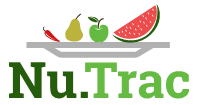
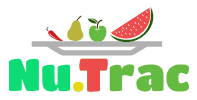
change theme

diff --git a/stylesheets/index.css b/stylesheets/index.css
@@ -4,8 +4,8 @@ html, body {
 }
 
 html {
-    /* Temp Font */
-    font-family: 'Shadows Into Light', cursive;
+    /* Rubik Font */
+    font-family: 'Rubik', sans-serif;
 }
 
 body > * {
@@ -15,7 +15,7 @@ body > * {
 body {
     flex-direction: column;
     display: flex;
-    background: palegreen;
+    background: #292929;
     align-items: center;
 }
 /* Nu.Trac */
@@ -25,17 +25,24 @@ body {
     justify-content: center;
     position: fixed;
     z-index: 1;
-    background-color: white;
-    /* height: 30%; */
+    background-color: #212121;
+}
+
+.divider {
+    width: 100%;
+    height: 40%;
+    background-color: #292929;
 }
 /* Contain both meal and vegeterian */
 .nav {
-    margin-top: 150px;
+    /* margin-top: 50%; */
     display: flex;
     flex-direction: column;
     height: 50%;
+    width: 100%;
     visibility: visible;
-    background-color: white;
+    background-color: #292929;
+    color: #A6A6A6;
 }
 
 .nav.hide {
@@ -56,8 +63,16 @@ body {
     flex-direction: column;
 }
 
-.meal > span {
-    font-size: 26px;
+.meal > p {
+    font-size: 18px;
+}
+
+input {
+    cursor: pointer;
+}
+
+.options > * span {
+    color:  #DBDBDB;
 }
 
 .vegeterian {
@@ -65,8 +80,8 @@ body {
     flex-direction: column;
 }
 
-.vegeterian > span {
-    font-size: 26px;
+.vegeterian > p {
+    font-size: 18px;
 }
 
 .meal > * {
@@ -83,10 +98,21 @@ body {
     justify-content: center;
 }
 
-.submit-button img {
+.submit-button button {
     width: 90px;
     height: 35px;
-    margin-top: 50px;
+    margin-top: 8%;
+    color: white;
+    background-color:#0DDB73;
+    border: none;
+    transition-duration: 0.4s;
+    cursor: pointer;
+    
+}
+
+.submit-button button:hover {
+    opacity: 0.6;
+    color: #212121;
 }
 
 .submit-button img:active {
@@ -103,10 +129,11 @@ body {
     display: block;
     text-align: center;
     margin-top: 107px;
-    border-radius: 2%;
-    background-color: white;
+    /* border-radius: 2%;S */
+    background-color: #292929;
     width: 80%;
     margin-top: 130px;
+    color: #DBDBDB;
 }
 
 .recipe-title {
@@ -117,7 +144,7 @@ body {
 
 .direct-rImage {
     width: 80%;
-    border-radius: 5%;
+    /* border-radius: 5%; */
 }
 
 .recipe-name, 
@@ -139,6 +166,16 @@ body {
 .nut {
     width: 90px;
     height: 35px;
+    color: white;
+    background-color:#0DDB73;
+    border: none;
+    transition-duration: 0.4s;
+    cursor: pointer;
+}
+
+.nut:hover {
+    opacity: 0.6;
+    color: #212121;
 }
 
 .nut:active {
@@ -148,6 +185,16 @@ body {
 .not {
     width: 90px;
     height: 35px;
+    color: white;
+    background-color:#0DDB73;
+    border: none;
+    transition-duration: 0.4s;
+    cursor: pointer;
+}
+
+.not:hover {
+    opacity: 0.6;
+    color: #212121;
 }
 
 .not:active {
@@ -161,11 +208,12 @@ body {
 .nutrition-container.show {
     display: block;
     width: 80%;
-    background-color: white;
-    border-radius: 30%;
+    background-color: #292929;
+    /* border-radius: 30%; */
     align-items: center;
     margin-top: 20px;
     margin-bottom: 20px;
+    color: #DBDBDB;
 }
 
 .nutHeader {
@@ -185,7 +233,7 @@ body {
 }
 
 /* Applies to all phones on portait mode */
-@media screen and (max-width: 450px) and (orientation: portrait) {
+/* @media screen and (max-width: 450px) and (orientation: portrait) {
     .nav {
         margin-top: 40%;
         margin-bottom: 10%;
@@ -238,10 +286,10 @@ body {
         font-size: 20px;
         text-align: center;
     }
-}
+} */
 
 /* Applies to all phones on landscape mode */
-@media screen and (max-width: 740px) and (orientation: landscape) {
+/* @media screen and (max-width: 740px) and (orientation: landscape) {
     .nav {
         margin-top: 20%;
         margin-bottom: 0;
@@ -255,7 +303,7 @@ body {
     .submit-button img {
         margin-bottom: 12%;
     }
-}
+} */
 
 /* @media screen and (max-width: 750px) and (orientation: landscape) {
     .nav {
@@ -273,7 +321,7 @@ body {
     }
 } */
 
-@media screen and (min-width: 760px) {
+/* @media screen and (min-width: 760px) {
     .nav {
         margin-top: 220px;
         display: flex;
@@ -307,4 +355,4 @@ body {
         transform: scale(1.4);
     }
 
-}
+} */

diff --git a/index.html b/index.html
@@ -4,8 +4,8 @@
     <meta charset="UTF-8">
     <meta name="viewport" content="width=device-width, initial-scale=1.0">
     <meta http-equiv="X-UA-Compatible" content="ie=edge">
-    <!-- Temp Font -->
-    <link href="https://fonts.googleapis.com/css?family=Shadows+Into+Light" rel="stylesheet">
+    <!-- Rubik Font -->
+    <link href="https://fonts.googleapis.com/css?family=Rubik" rel="stylesheet">
     <!-- Normalizer -->
     <link rel="stylesheet" href="https://cdnjs.cloudflare.com/ajax/libs/normalize/8.0.1/normalize.min.css">
     <!-- Index StyleSheet -->
@@ -19,13 +19,14 @@
     <div class="title">
         <img src="images/title.png">
     </div>
-
+    <!-- Put empty block under title to get rid of margin from nav -->
+    <div class="divider"></div>
     <!-- Nav Div for Meal and Dietary Selection-->
     <nav class="nav" data-nav>
         <!-- Meal Option -->
         <div class="options">
             <div class="meal">
-                <span class="meal-title">Meal:</span>
+                <p>Meal</p>
                 <div class="breakfast">
                     <input name="meal-button" type="radio" id="breakfast">
                     <span>Breakfast</span>
@@ -45,7 +46,7 @@
             </div>
             <!-- Dietary Option-->
             <div class="vegeterian">
-                <span>Vegeterian:</span>
+                <p>Vegeterian</p>
                 <div class="yes-vegetarian">
                     <input name="vegeterian-button" type="radio" id="is-vegetarian">
                     <span>Yes</span>
@@ -58,7 +59,7 @@
         </div>    
             <!-- Submit Button Div Block -->
         <div class="submit-button" >
-            <img src="images/button_submit.png" data-submitButton>
+            <button data-submitButton>Submit</button>
         </div>
     </nav>
 
@@ -85,8 +86,8 @@
 
         </div>
         <div class="nut-not-container"> 
-            <img src="images/button_nut.png" class="nut" nut-button>
-            <img src="images/button_not.png" class="not" not-button>
+            <button class="nut" nut-button>Nut</button>
+            <button class="not" not-button>Not</button>
         </div>
     </div>
 
